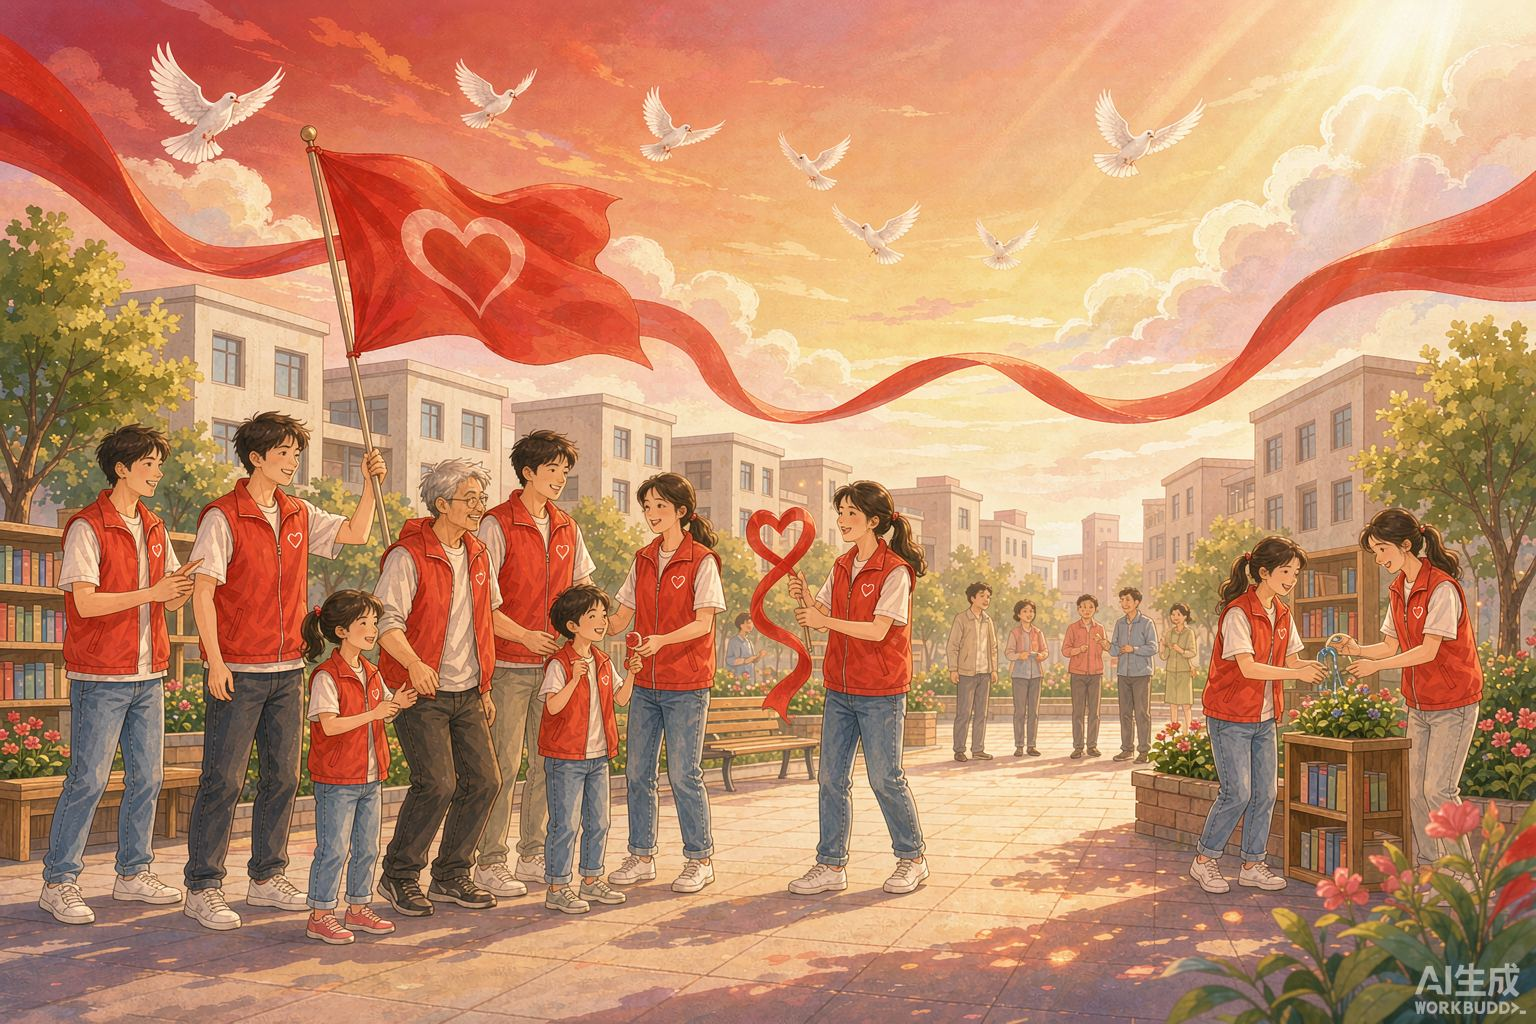
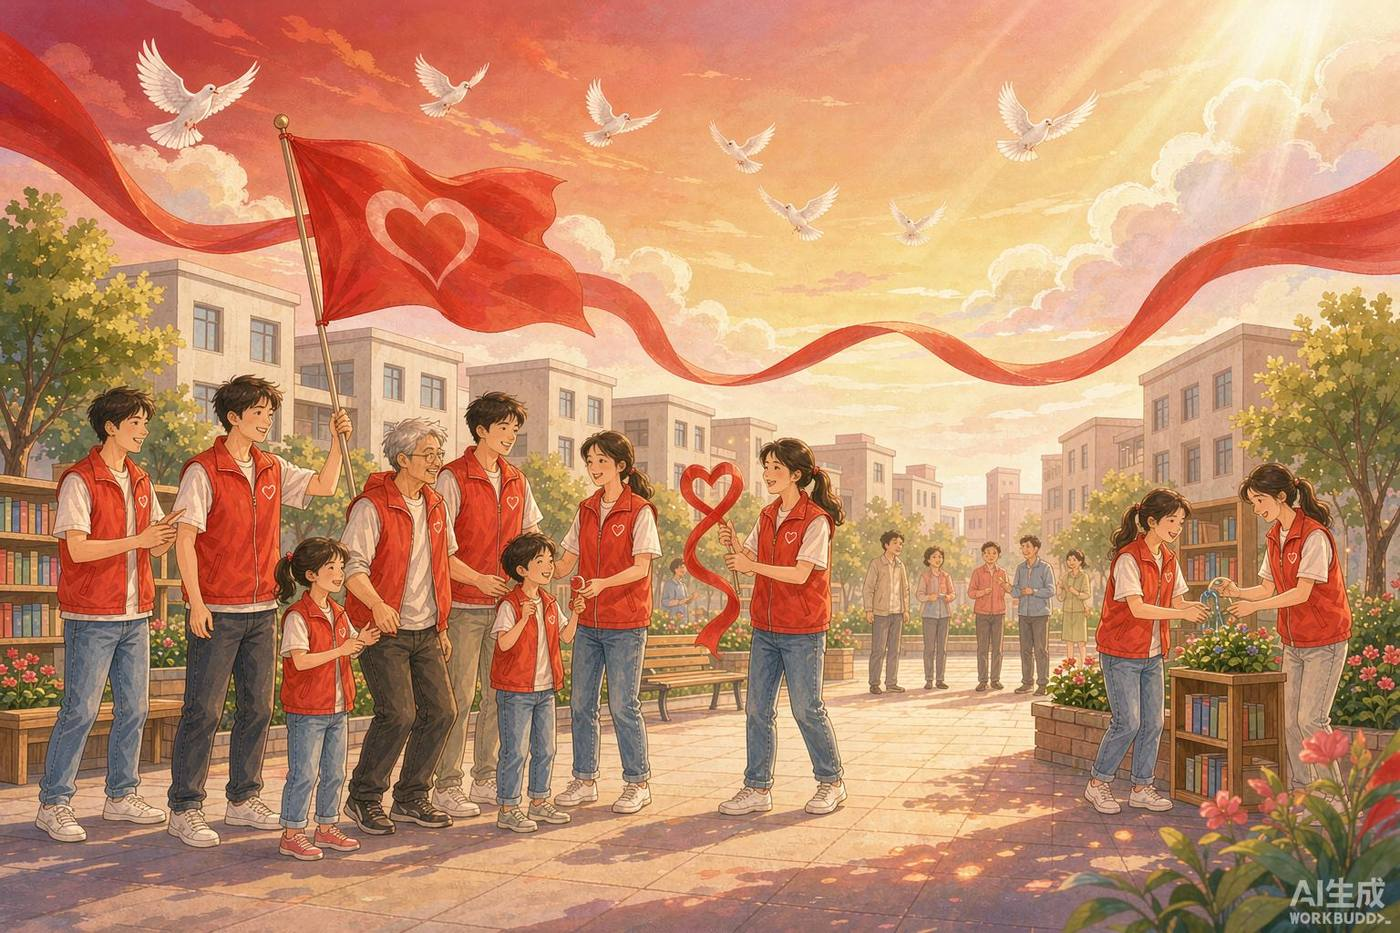
v18.12：登录页提速——去掉背景慢缩放动画+所有脚本defer不阻塞渲染+背景图再压到200KB内

diff --git a/index.html b/index.html
@@ -200,14 +200,14 @@
 <div id="toast" class="toast" hidden></div>
 <div id="modalHost"></div>
 
-<script src="vendor/chart.umd.min.js"></script>
-<script src="vendor/xlsx.full.min.js"></script>
-<script src="vendor/jspdf.umd.min.js"></script>
-<script src="vendor/jspdf.plugin.autotable.min.js"></script>
-<script src="vendor/qrcode-gen.js"></script>
-<script src="app.js?v=18.10"></script>
-<script src="app-biz.js?v=18.10"></script>
-<script src="zy-sync.js?v=18.10"></script>
-<script src="demo-data.js?v=18.10"></script>
+<script defer src="vendor/chart.umd.min.js"></script>
+<script defer src="vendor/xlsx.full.min.js"></script>
+<script defer src="vendor/jspdf.umd.min.js"></script>
+<script defer src="vendor/jspdf.plugin.autotable.min.js"></script>
+<script defer src="vendor/qrcode-gen.js"></script>
+<script defer src="app.js?v=18.10"></script>
+<script defer src="app-biz.js?v=18.10"></script>
+<script defer src="zy-sync.js?v=18.10"></script>
+<script defer src="demo-data.js?v=18.10"></script>
 </body>
 </html>

diff --git a/styles.css b/styles.css
@@ -28,8 +28,7 @@ img{display:block;max-width:100%;}
 
 /* ============================================ 登录页（全屏背景图 + 徽章 + 垂直堆叠布局） ============================================ */
 .login{min-height:100vh;width:100%;display:flex;flex-direction:column;position:relative;overflow-y:auto;overflow-x:hidden;background:#80070e;}
-.login-bg{position:absolute;inset:0;background:url(login-bg.jpg) center/cover no-repeat;animation:slowzoom 26s ease-in-out infinite alternate;}
-@keyframes slowzoom{from{transform:scale(1)}to{transform:scale(1.07)}}
+.login-bg{position:absolute;inset:0;background:url(login-bg.jpg) center/cover no-repeat;}
 .login-bg::after{content:"";position:absolute;inset:0;background:linear-gradient(180deg, rgba(112,6,12,.78) 0%, rgba(112,6,12,.55) 50%, rgba(112,6,12,.72) 100%);}
 
 .login-main{flex:1;display:flex;flex-direction:column;align-items:center;justify-content:flex-start;position:relative;z-index:2;padding:48px 20px 0;}
